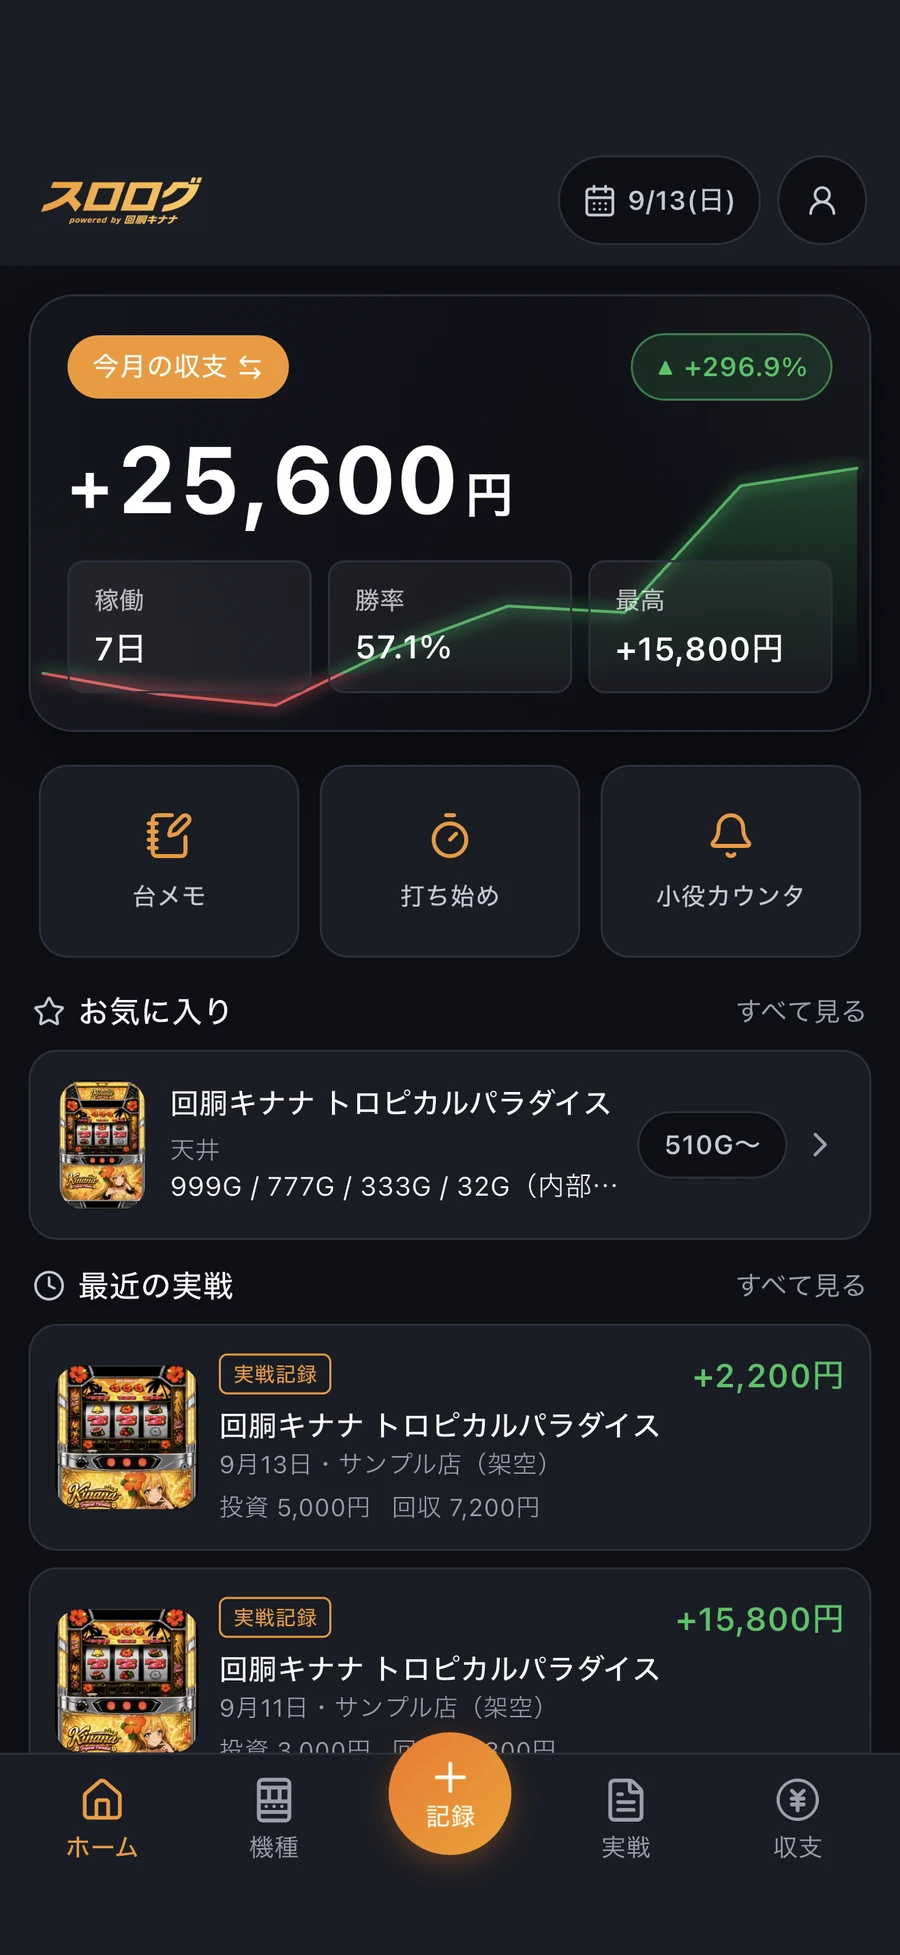
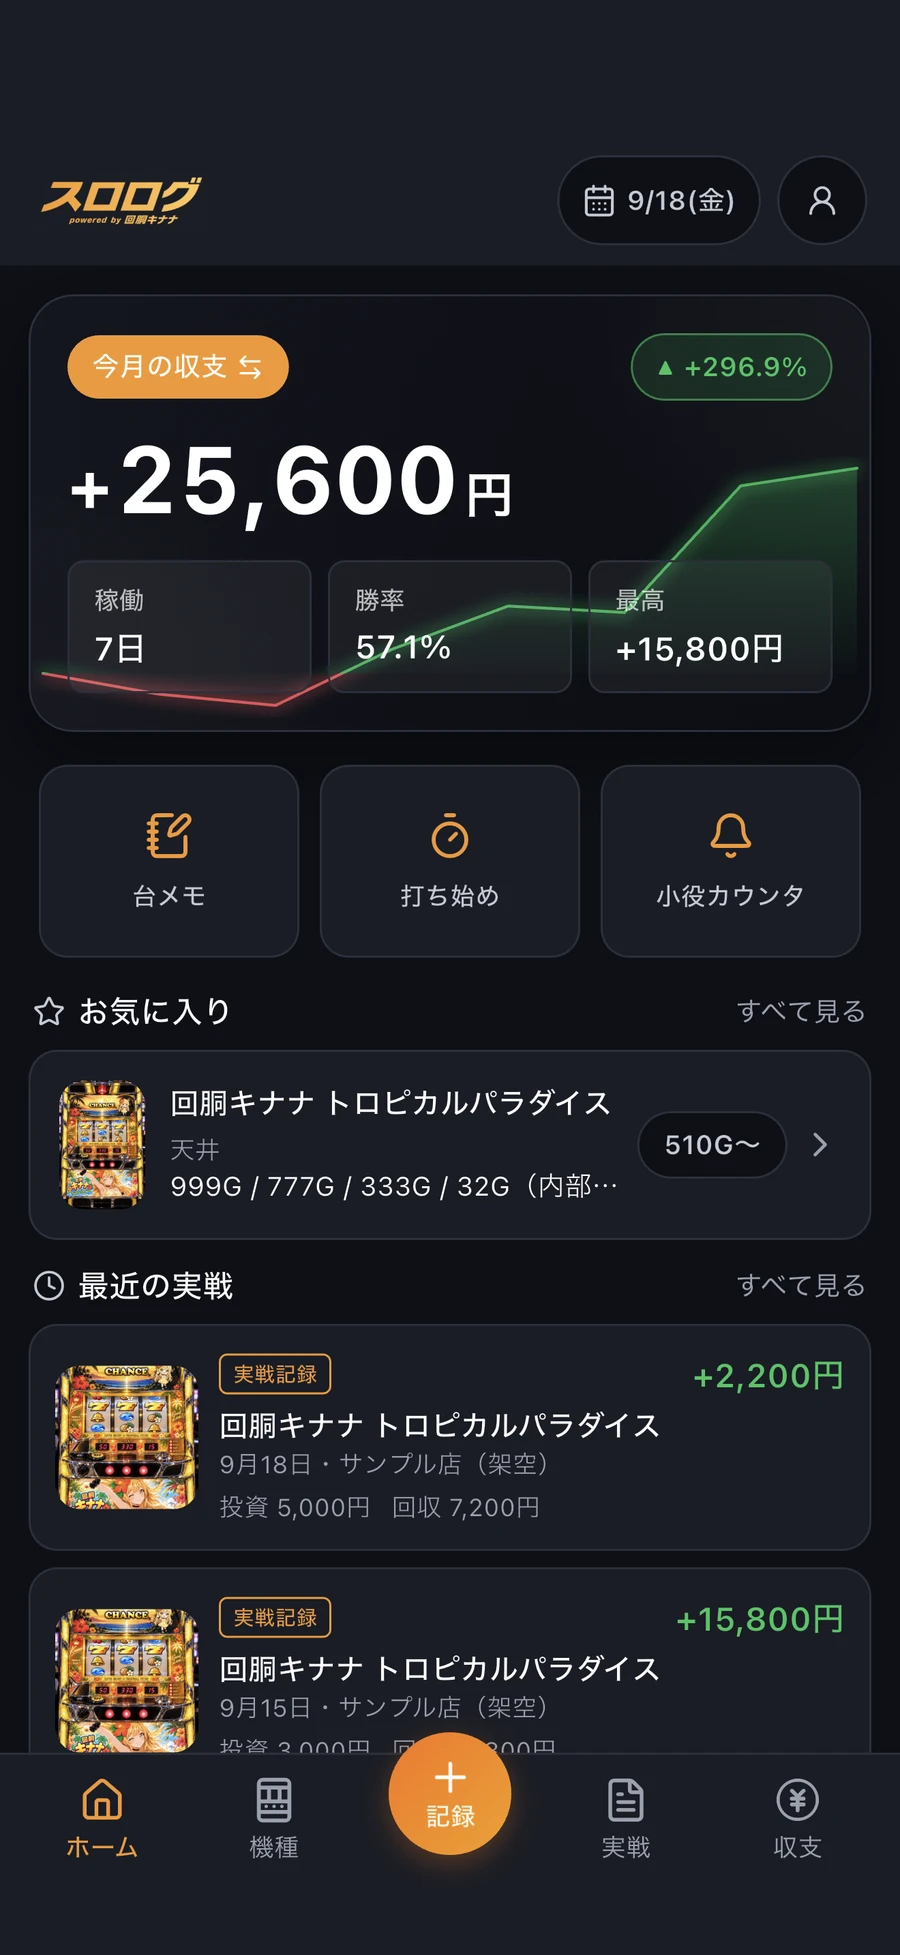
LPのアプリ画面を最新のスクショで作り直し（新しいキナナ筐体）。再生成用に scripts/refresh-screens.mjs を追加

diff --git a/PIPELINE.md b/PIPELINE.md
@@ -126,3 +126,15 @@ LPは「アプリに取り込む機種データ」であって、機種の総合
 - 型式名の末尾の記号はメーカー記号（KK/KT/KA/KD/ZT/ZN/TN/TT＝北電子、A1〜A3＝大都技研、PA1〜PA7＝パオン・ディーピー、SB/SC＝サボハニ、BD＝ユニバーサルブロス）。
   **maker と食い違ったら maker を疑う**（例：スマスロ秘宝伝は PA7＝パオン・ディーピー製、大都技研は販売）。
 - 表示は機種ページの基本情報「型式名」の1行だけ。検定番号と確認元URLはページに出さない（照合用）。
+
+## LPのアプリ画面を撮り直したとき
+
+スロログ側で `flutter drive --driver=test_driver/integration_test.dart --target=integration_test/shots_test.dart -d <simulator>` を回して
+`~/slolog/screenshots/raw/` が更新されたら、LP側でこれを実行する。
+
+```
+node scripts/refresh-screens.mjs
+```
+
+`public/editorial/assets/` の home / ev / graph / record / calendar / review / review-detail を作り直す。
+サンプルの筐体画像を差し替えたときも、これを回さないとLPだけ古い絵のまま残る。
